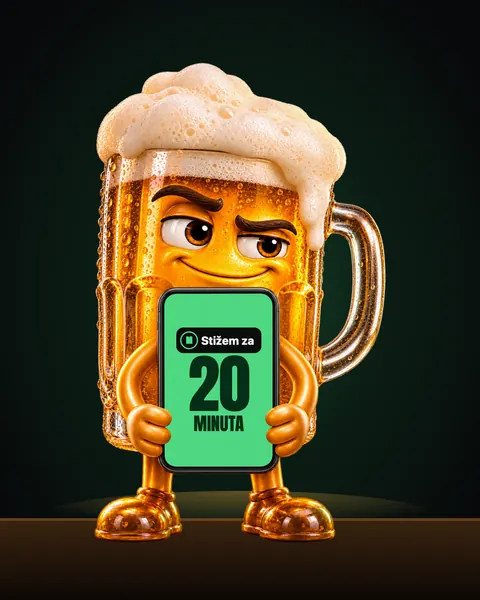
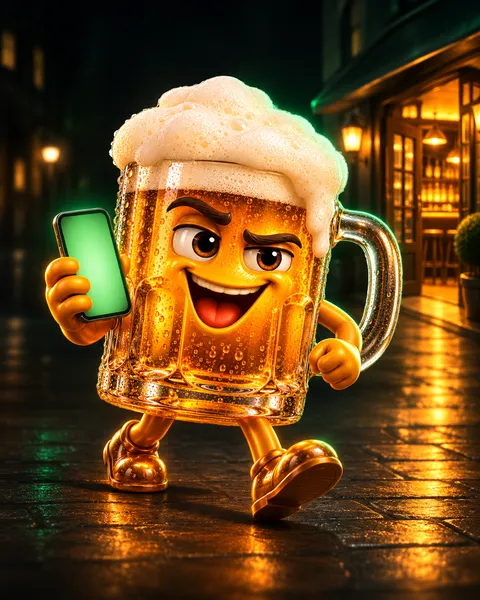
Koraci step 3: Petar picked scene A (Krigla hurrying down a night street, phone in hand) instead of the pasted-phone image

diff --git a/components/sections.jsx b/components/sections.jsx
@@ -42,7 +42,7 @@ const KORACI = [
 const KORACI_11 = [
   ["Dodaš ekipu.", "Samo ljude koje prihvatiš.", "1-ekipa", "Krigla s mobitelom zove ekipu"],
   ["Vani si? Upališ „Vani sam“.", "Kava se isto računa.", "2-vani", "Krigla raširenih ruku pod reflektorom"],
-  ["Ekipa javi „Stižem za 20“.", "Ili te barem zeza da si doma.", "3-stizem", "Krigla drži mobitel s porukom pajdaša: Stižem za 20 minuta"],
+  ["Ekipa javi „Stižem za 20“.", "Ili te barem zeza da si doma.", "3-stizem", "Krigla žuri noćnom ulicom prema kafiću s mobitelom u ruci: stiže za 20"],
 ];
 
 function Koraci11() {
